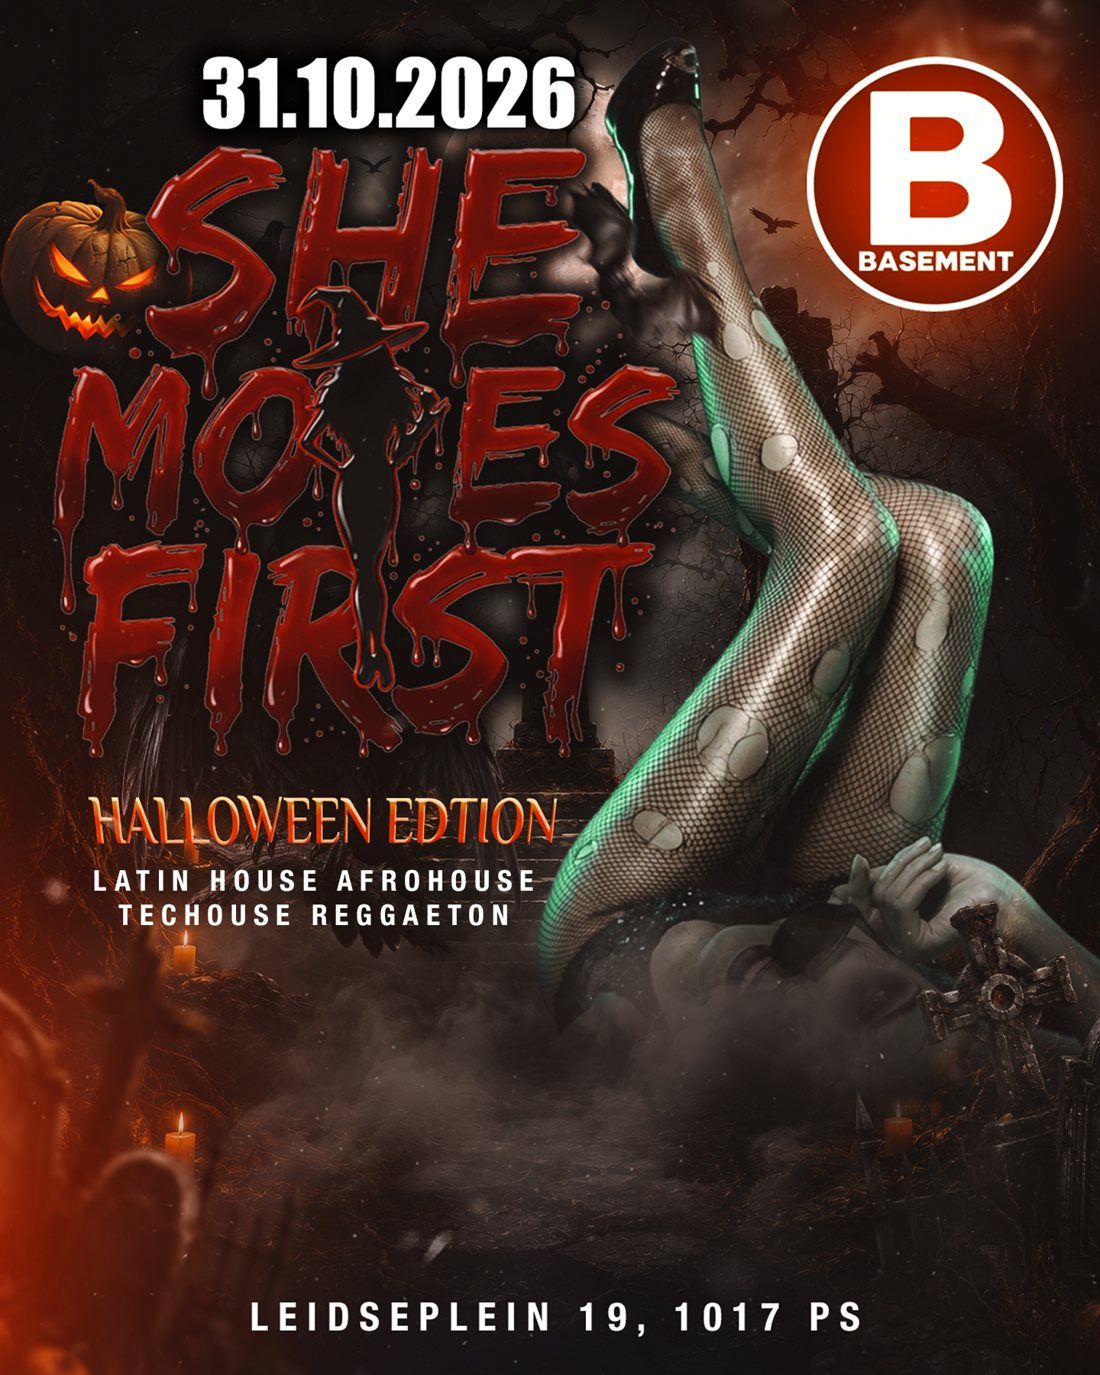
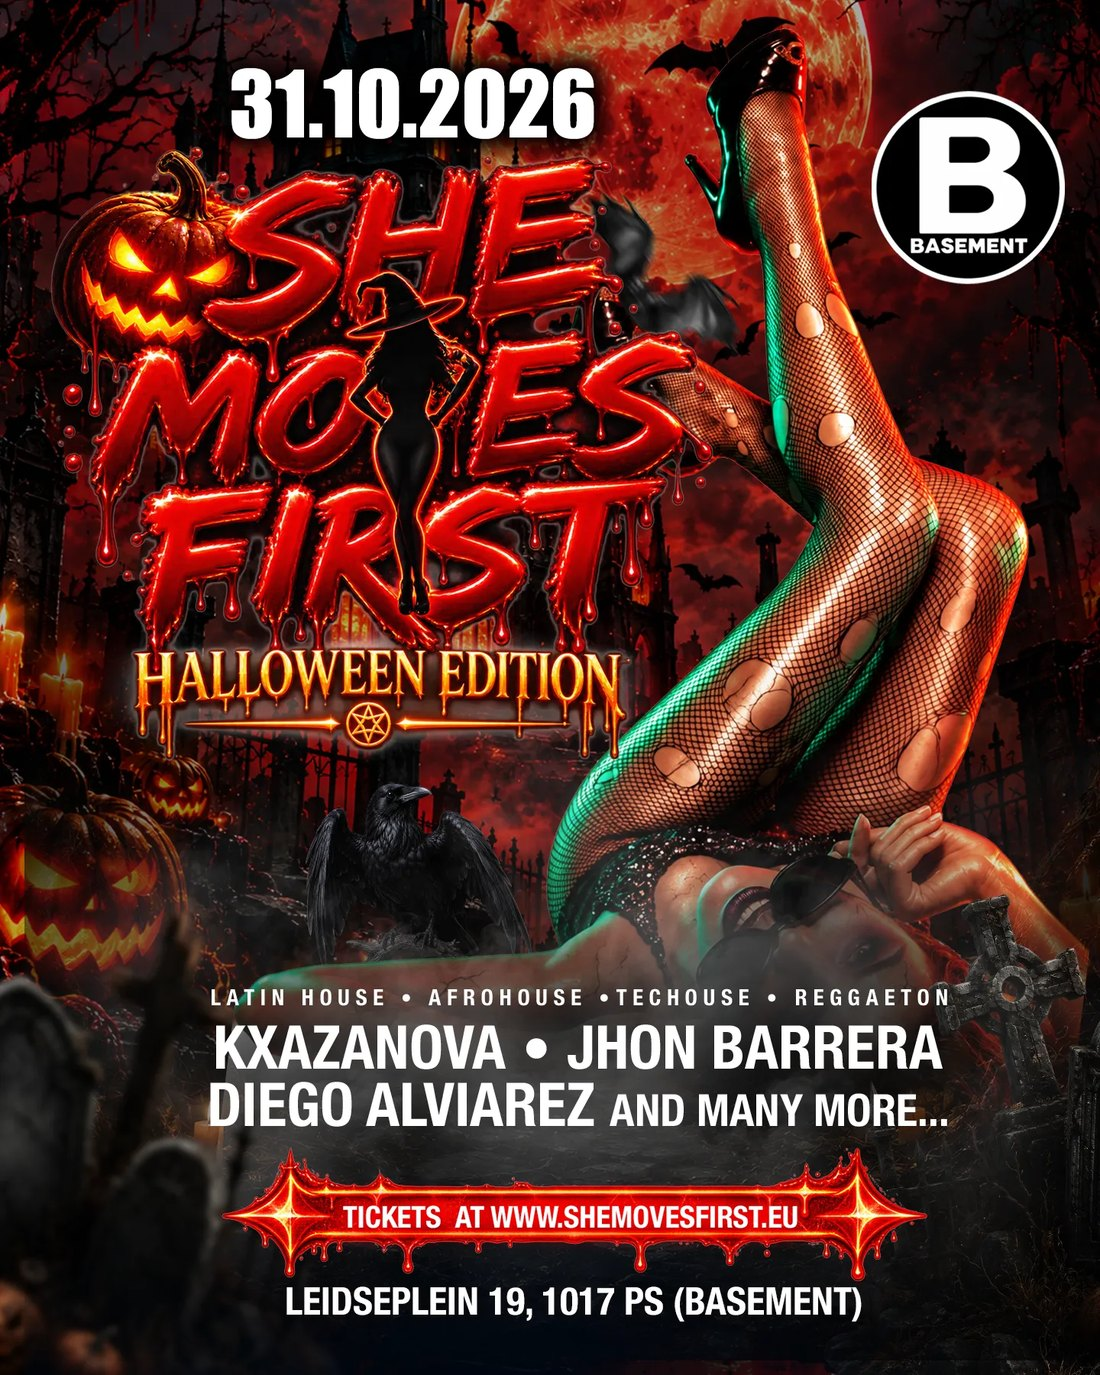
Final Halloween flyer with line-up (KXAZANOVA, JHON BARRERA, DIEGO ALVIAREZ)

diff --git a/index.html b/index.html
@@ -76,7 +76,7 @@
       <p class="kicker"><span class="dot"></span>She Moves First &#183; &#193;msterdam</p>
       <h1>Halloween<br><em>Edition</em></h1>
       <p class="datebig">S&#225;bado <span>31.10.2026</span> &#183; Leidseplein 19</p>
-      <p class="tag">Latin house, afrohouse, tech house y reggaeton en una sola noche. KXAZANOVA residente y line-up por anunciar. Disfraz recomendado.</p>
+      <p class="tag">Latin house, afrohouse, tech house y reggaeton en una sola noche. Con <strong>KXAZANOVA</strong>, <strong>JHON BARRERA</strong>, <strong>DIEGO ALVIAREZ</strong> y m&#225;s. Disfraz recomendado.</p>
       <div class="hero-meta">
         <span class="chip">+18</span>
         <span class="chip">Latin house</span>
@@ -90,7 +90,7 @@
       </div>
     </div>
     <div class="poster-wrap">
-      <a href="halloween-31-10-2026.jpg" target="_blank" rel="noopener"><img class="poster" src="halloween-31-10-2026.jpg" width="1100" height="1375" alt="She Moves First &#183; Halloween Edition &#183; 31.10.2026 &#183; Basement Amsterdam" fetchpriority="high"></a>
+      <a href="halloween-31-10-2026.jpg?v=2" target="_blank" rel="noopener"><img class="poster" src="halloween-31-10-2026.jpg?v=2" width="1100" height="1375" alt="She Moves First &#183; Halloween Edition &#183; 31.10.2026 &#183; Basement Amsterdam" fetchpriority="high"></a>
     </div>
   </div>
 </section>
@@ -111,7 +111,7 @@
         <div class="when"><b>31</b><span>Oct &#183; S&#225;b</span></div>
         <div>
           <h3>Halloween <em>Edition</em></h3>
-          <p>Basement Amsterdam &#183; Leidseplein 19, 1017 PS &#183; +18<br>Latin house &#183; Afrohouse &#183; Tech house &#183; Reggaeton &#183; KXAZANOVA + line-up por anunciar</p>
+          <p>Basement Amsterdam &#183; Leidseplein 19, 1017 PS &#183; +18<br>Latin house &#183; Afrohouse &#183; Tech house &#183; Reggaeton<br>KXAZANOVA &#183; JHON BARRERA &#183; DIEGO ALVIAREZ &#183; and many more</p>
         </div>
         <div class="act"><a class="btn" href="https://www.fourvenues.com/dale-reggaeton/P01Y" target="_blank" rel="noopener">Entradas</a><span class="state">Pr&#243;xima fecha</span></div>
       </article>
